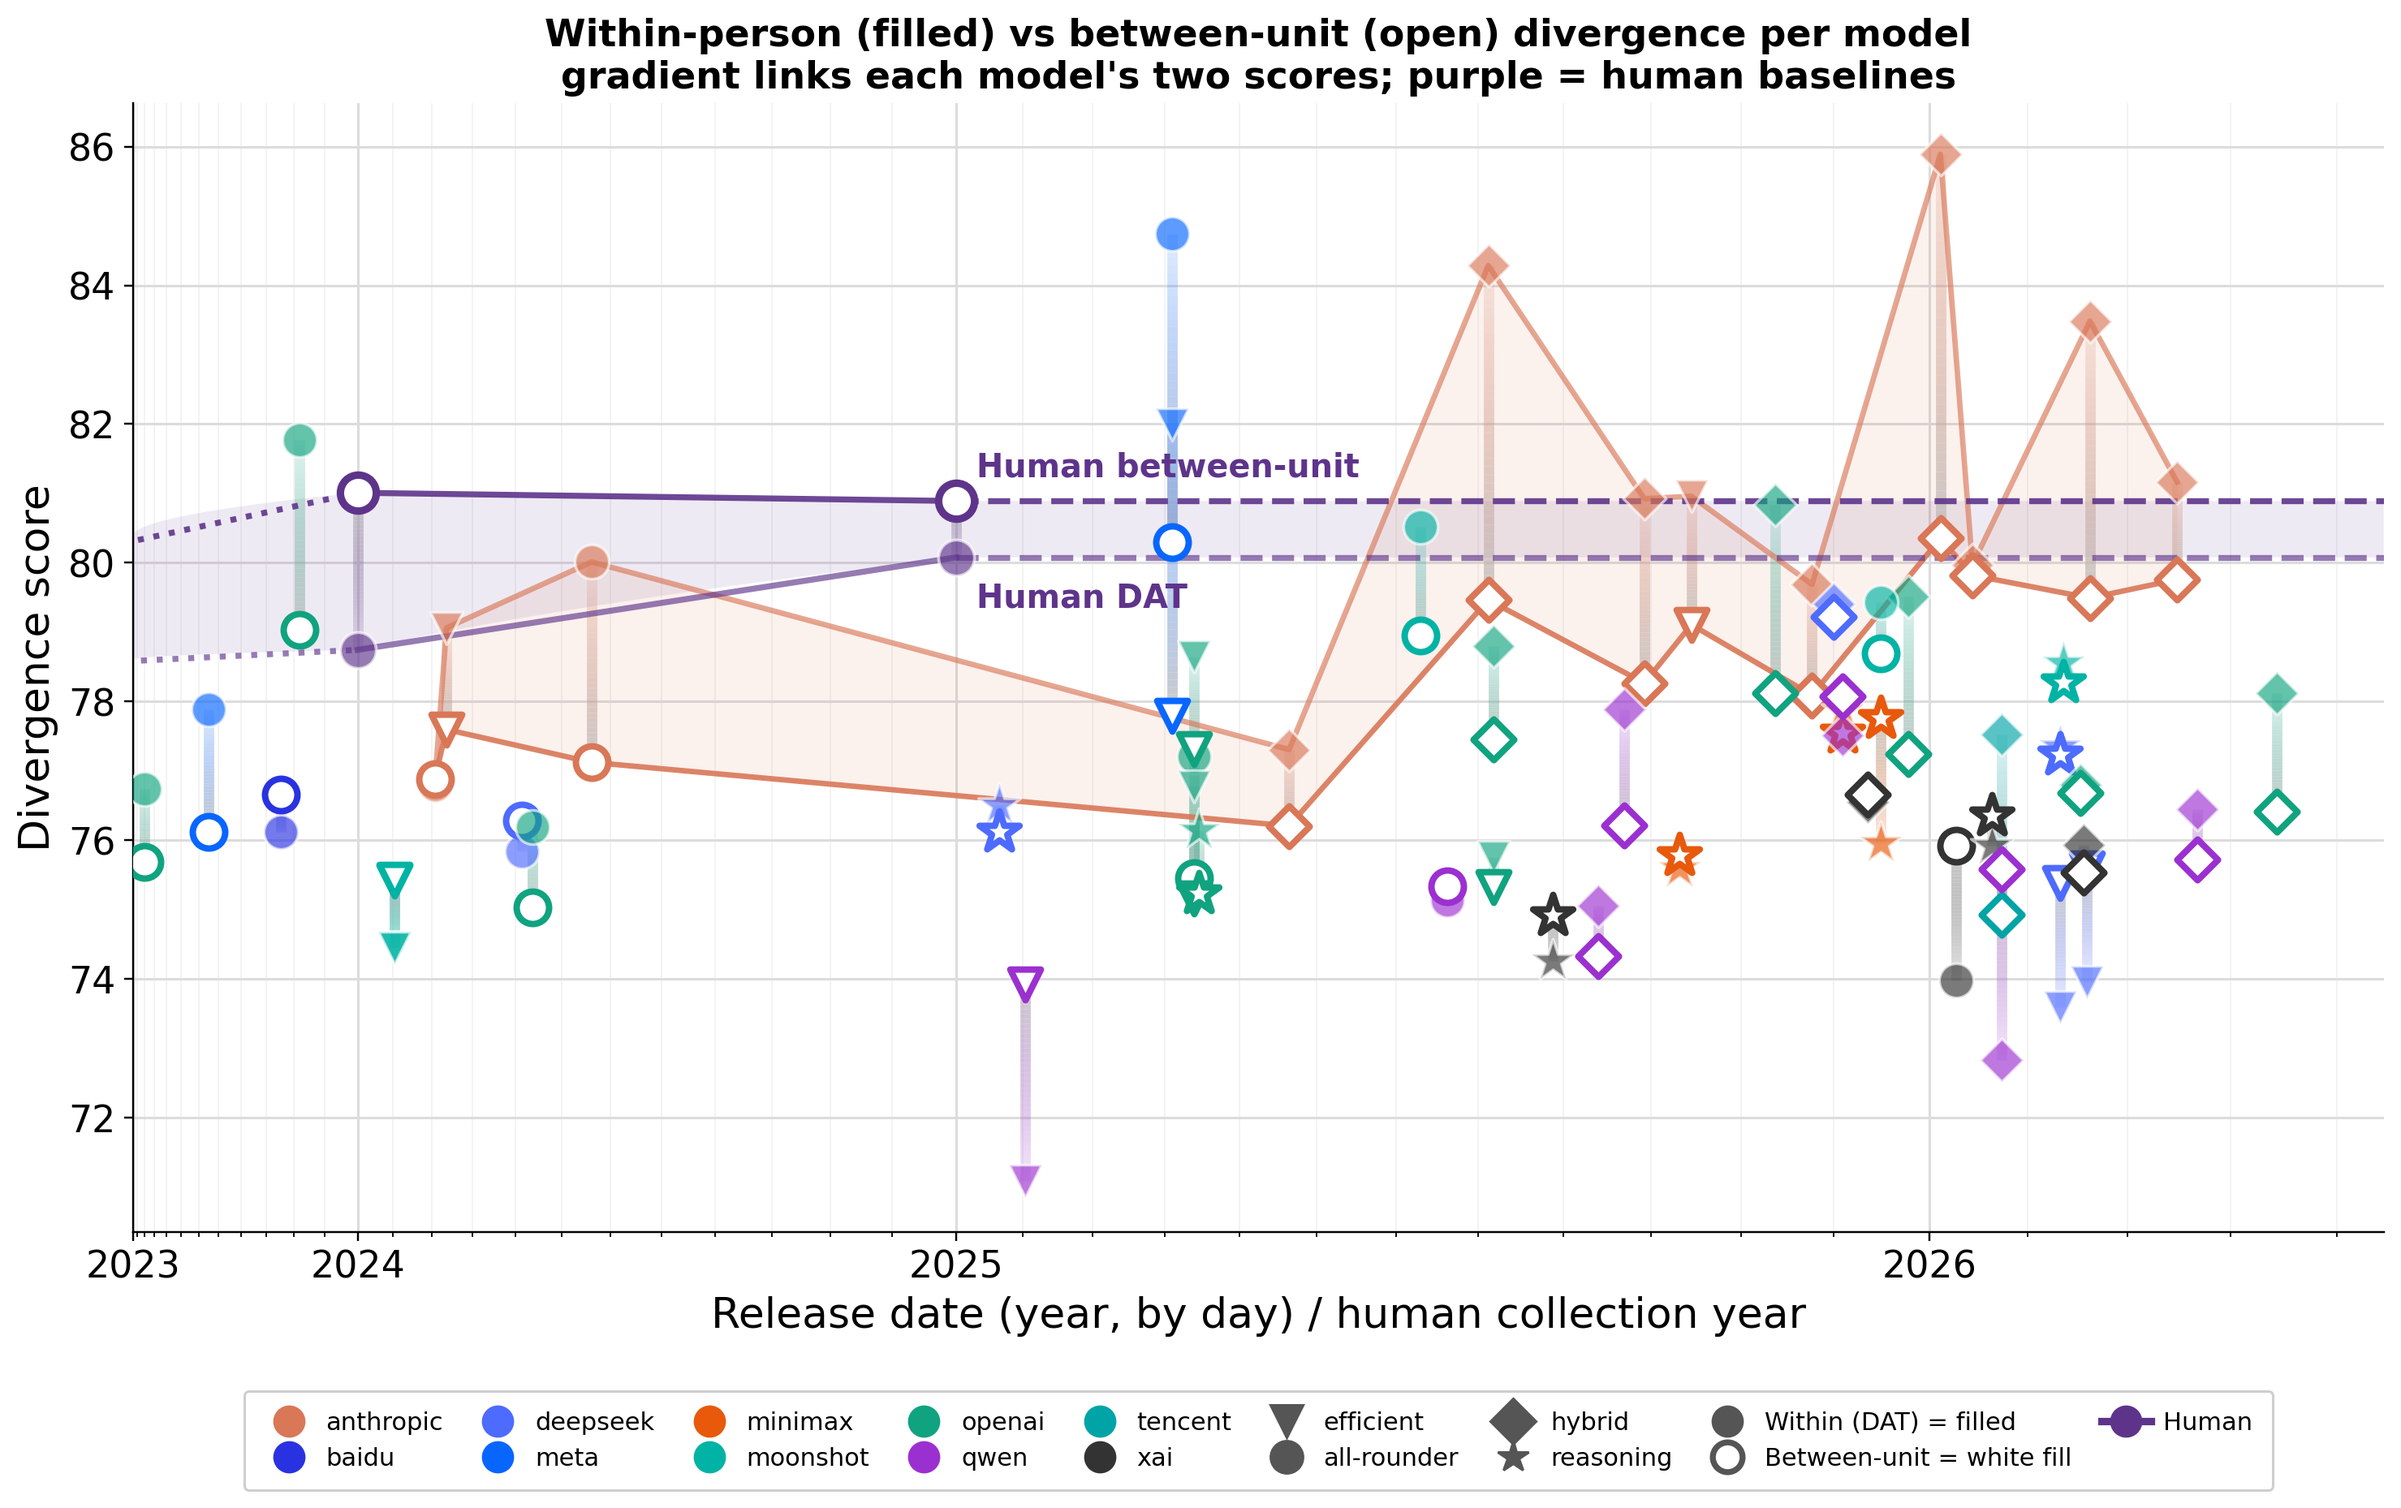
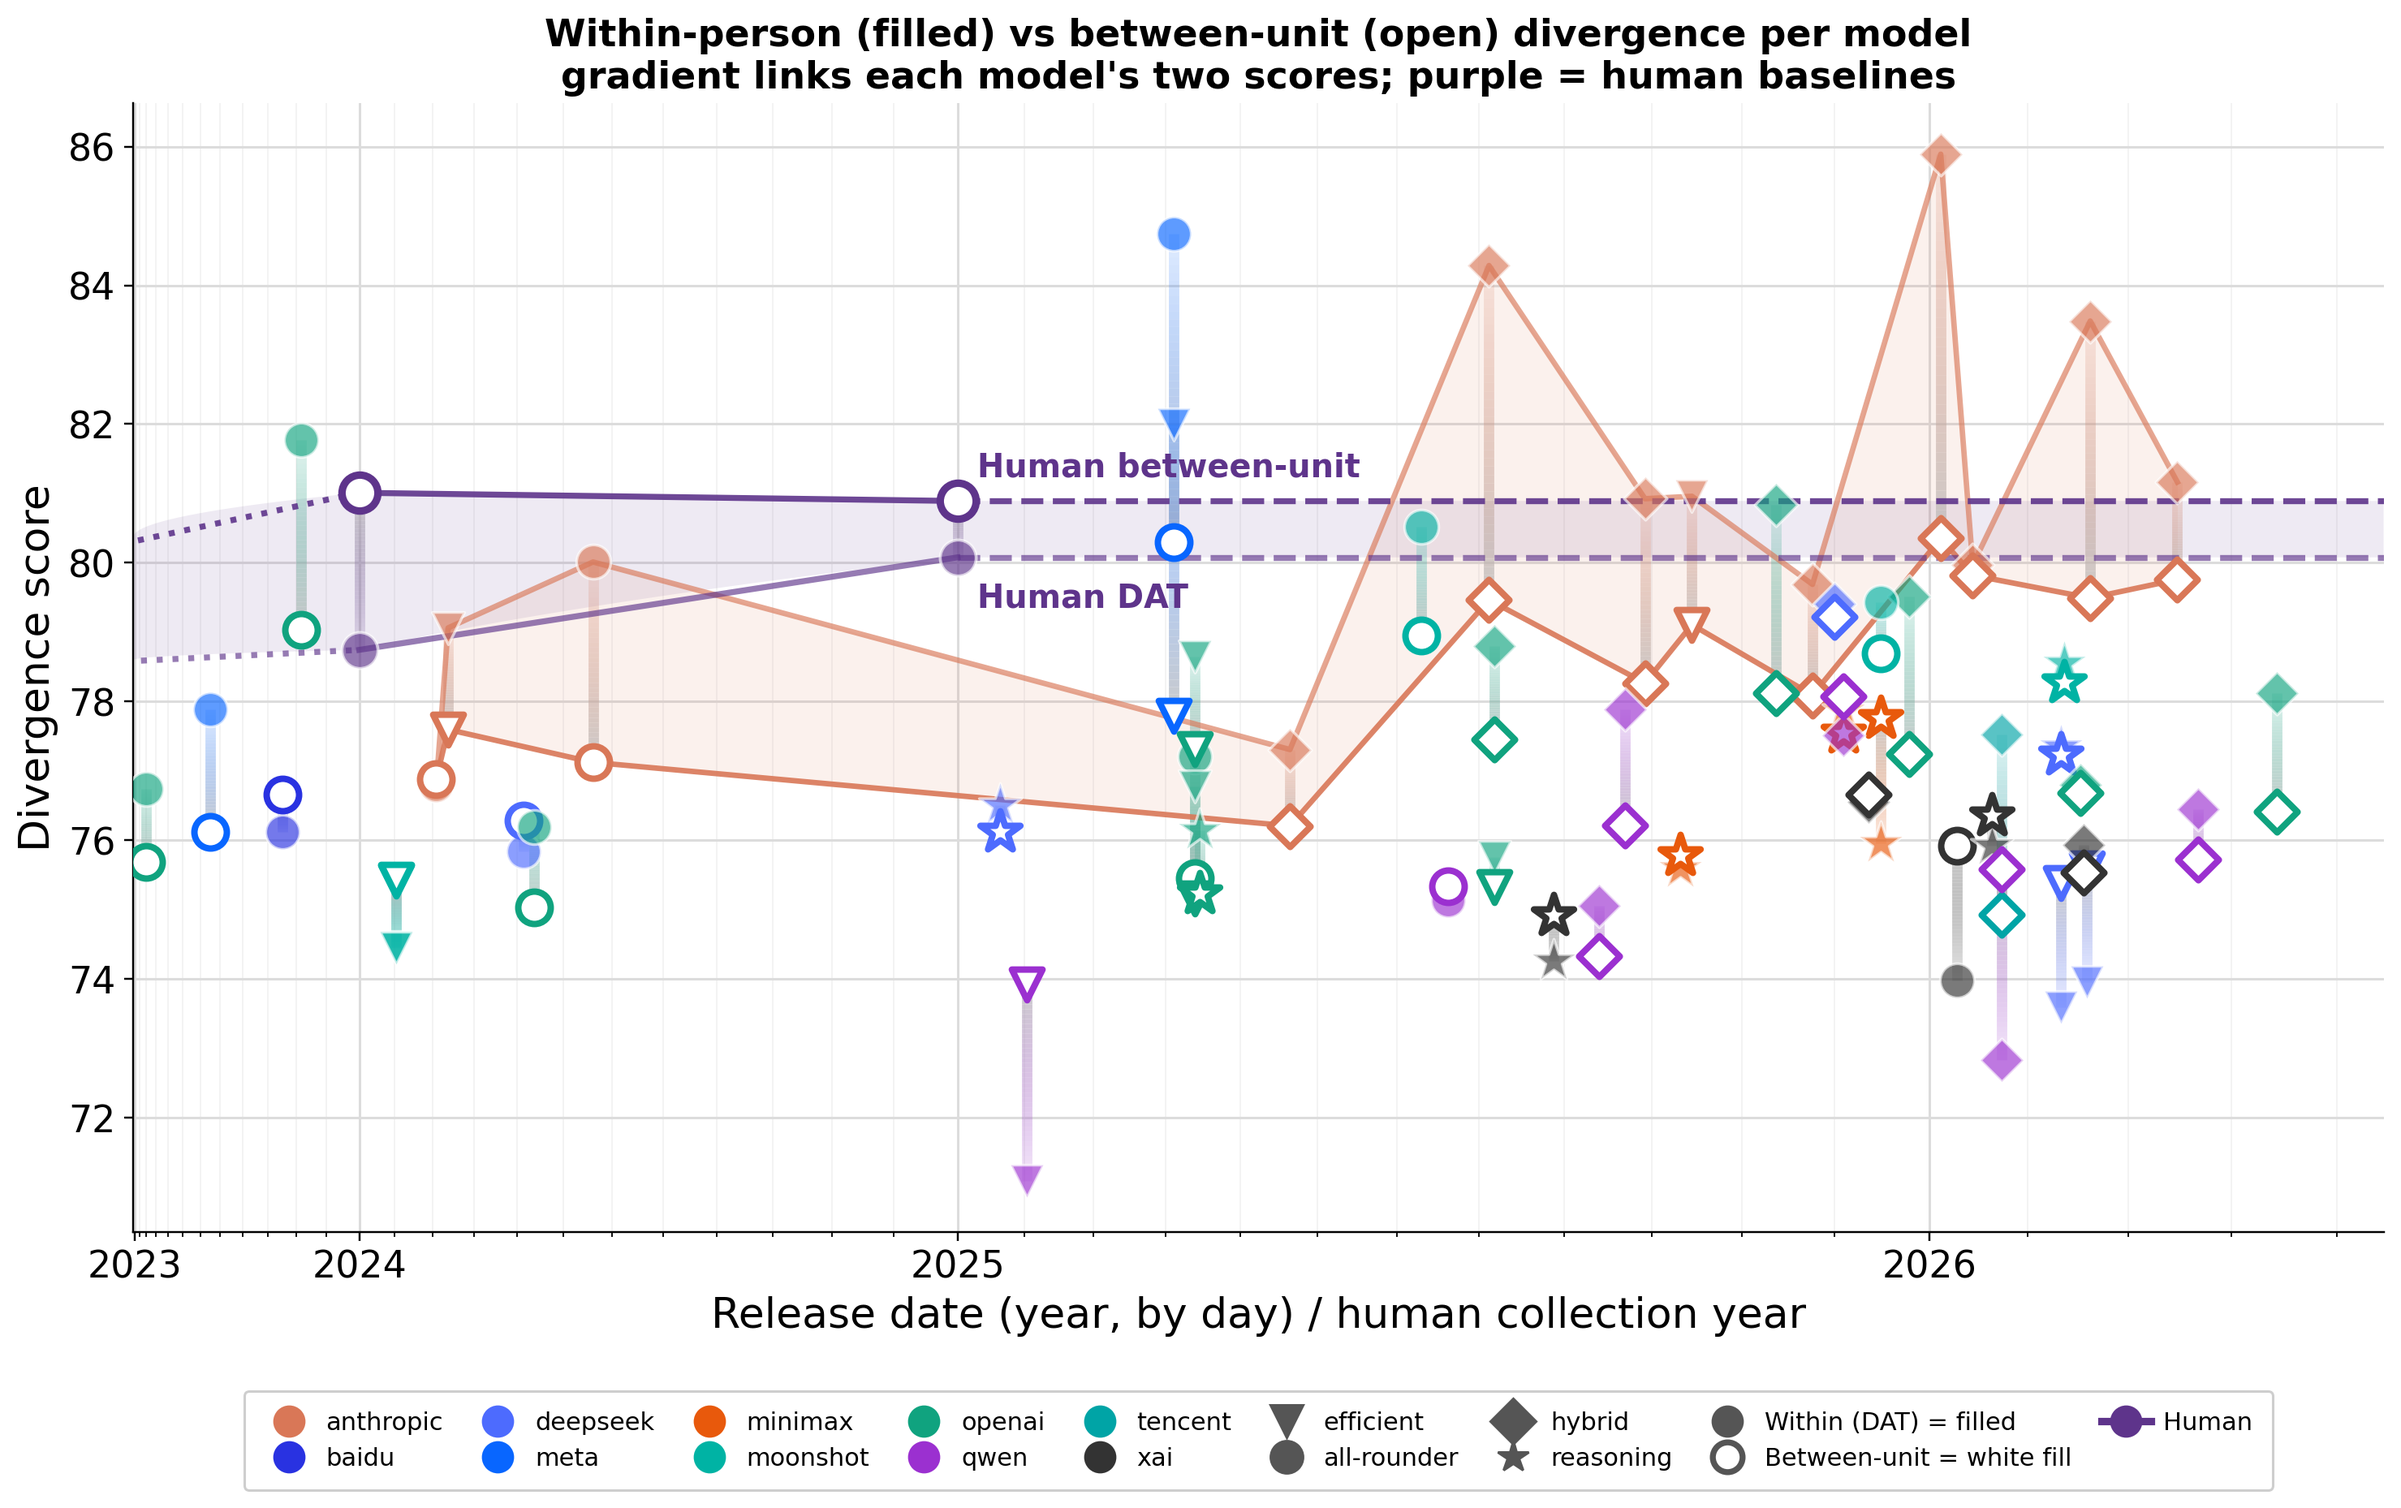
Overlay: x-min = 3 months before earliest model (x-max stays 1 month after latest)

diff --git a/analysis/within_vs_between_overlay_plot.py b/analysis/within_vs_between_overlay_plot.py
@@ -22,7 +22,7 @@ def load(fn):
 dat,dat_hy=load("permonth_data.json")
 btw,btw_hy=load("between_data.json")
 models=[m for m in dat if m in btw]
-allx=[dat[m][0] for m in models]; xmin=min(allx)-1/12; xmax=max(allx)+1/12
+allx=[dat[m][0] for m in models]; xmin=min(allx)-3/12; xmax=max(allx)+1/12
 
 def grad_segments(x,y0,y1,c0,c1,n=40,a0=0.12,a1=0.75):
     # y0 = DAT end (alpha a0=0.70, matches 30%-transparent DAT circle); y1 = between end (alpha a1, faded)
